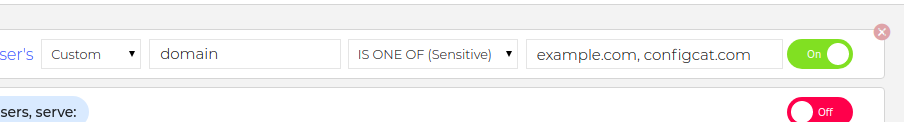
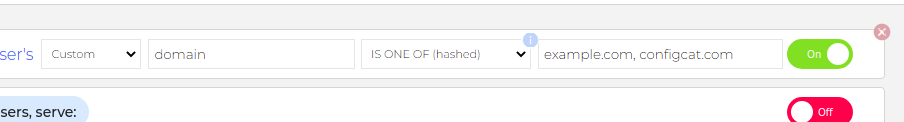
Sensitive text changes (#132)
* sensitive text changed to confidential text

* Sensitvive -> Confidential

* Sensitvive -> Hashed

* Some pictures updated

Changed region(s): [[0.3717, 0.3197, 0.8363, 0.5656], [0.0619, 0.3934, 0.2478, 0.4918], [0.5575, 0.2705, 0.6195, 0.3934]]

diff --git a/website/docs/advanced/targeting.md b/website/docs/advanced/targeting.md
@@ -44,35 +44,35 @@ The following comparators assume that *Attribute* and *Comparison value* contain
 > In case **attribute is not passed** to the SDK or it's value is **falsy** (unknown, null, ""), targeting rule **evaluation will be skipped**.
 
 :::caution
-Consider using Sensitive text comparators if you are planning to target users by their sensitive information e.g: email address or company domain!
+Consider using Confidential text comparators if you are planning to target users by their sensitive information e.g: email address or company domain!
 :::
 
-| Comparator       | Description                                                                                                         |
-| ---------------- | ------------------------------------------------------------------------------------------------------------------- |
-| IS ONE OF        | Checks if the *Attribute* is listed in the *Comparison value*. *Comparison value* should be a comma-separated list. |
-| IS NOT ONE OF    | True if the *Attribute* is not listed in the *Comparison value*.                                                    |
-| CONTAINS         | True if the *Attribute* contains the *Comparison value*.                                                            |
-| DOES NOT CONTAIN | True if the *Attribute* doesn't contain the *Comparison value*.                                                     |
+| Comparator                   | Description                                                                                                         |
+| ---------------------------- | ------------------------------------------------------------------------------------------------------------------- |
+| IS ONE OF (cleartext)        | Checks if the *Attribute* is listed in the *Comparison value*. *Comparison value* should be a comma-separated list. |
+| IS NOT ONE OF (cleartext)    | True if the *Attribute* is not listed in the *Comparison value*.                                                    |
+| CONTAINS (cleartext)         | True if the *Attribute* contains the *Comparison value*.                                                            |
+| DOES NOT CONTAIN (cleartext) | True if the *Attribute* doesn't contain the *Comparison value*.                                                     |
 
-#### Sensitive text comparators
+#### Confidential text comparators
 
-We recommend sensitive text comparators in case of frontend applications targeting users based on sensitive data (like email addresses, names, etc).
+We recommend confidential text comparators in case of frontend applications targeting users based on sensitive data (like email addresses, names, etc).
 In this case, the feature flag evaluation is based on the secure hashes of the comparison values.
 
 | Comparator                | Description                                                                                                         |
 | ------------------------- | ------------------------------------------------------------------------------------------------------------------- |
-| IS ONE OF (Sensitive)     | Checks if the *Attribute* is listed in the *Comparison value*. *Comparison value* should be a comma-separated list. |
-| IS NOT ONE OF (Sensitive) | True if the *Attribute* is not listed in the *Comparison value*.                                                    |
+| IS ONE OF (hashed)        | Checks if the *Attribute* is listed in the *Comparison value*. *Comparison value* should be a comma-separated list. |
+| IS NOT ONE OF (hashed)    | True if the *Attribute* is not listed in the *Comparison value*.                                                    |
 
-Since sensitive text comparators don't support CONTAINS or DOES NOT CONTAIN comparisons, here is an example of how to target users from the same company. Which used to be handled by a rule like:
+Since confidential text comparators don't support CONTAINS or DOES NOT CONTAIN comparisons, here is an example of how to target users from the same company. Which used to be handled by a rule like:
 
-![Sensitive](/assets/sensitive2.png)
+![Confidential](/assets/sensitive2.png)
 
 
-You can add a custom attribute called `domain` and use only sensitive comparators in the targeting rule.
+You can add a custom attribute called `domain` and use only confidential comparators in the targeting rule.
 
 On the Dashboard:
-![Sensitive](/assets/sensitive1.png)
+![Confidential](/assets/sensitive1.png)
 
 In your code:
 ```js
@@ -84,7 +84,7 @@ const userObject = {
 }
 const value = configCatClient.getValue(key, defaultValue, callback, userObject);
 ```
-Sensitive comparators are supported from these SDK versions:
+Confidential comparators are supported from these SDK versions:
 
 | SDK     | Version |
 | ------- | ------- |

diff --git a/website/docs/sdk-reference/js-ssr.md b/website/docs/sdk-reference/js-ssr.md
@@ -405,7 +405,7 @@ const configCatClient = configcat.createClientWithAutoPoll('PKDVCLf-Hq-h-kCzMp-L
 The frontend/mobile SDKs are running in your users' browsers/devices. The SDK is downloading a [config.json](https://configcat.com/docs/requests/) file from ConfigCat's CDN servers. The URL path for this config.json file contains your SDK key, so the SDK key and the content of your config.json file (feature flag keys, feature flag values, targeting rules, % rules) can be visible to your users. 
 This SDK key is read-only, it only allows downloading your config.json file, but nobody can make any changes with it in your ConfigCat account.  
 Suppose you don't want your SDK key or the content of your config.json file visible to your users. In that case, we recommend you use the SDK only in your backend applications and call a backend endpoint in your frontend/mobile application to evaluate the feature flags for a specific application customer.  
-Also, we recommend using [sensitive targeting comparators](https://configcat.com/docs/advanced/targeting/#sensitive-text-comparators) in the targeting rules of those feature flags that are used in the frontend/mobile SDKs.
+Also, we recommend using [confidential targeting comparators](https://configcat.com/docs/advanced/targeting/#confidential-text-comparators) in the targeting rules of those feature flags that are used in the frontend/mobile SDKs.
 
 
 ## Browser compatibility

diff --git a/website/docs/sdk-reference/js.md b/website/docs/sdk-reference/js.md
@@ -416,7 +416,7 @@ const configCatClient = configcat.createClientWithAutoPoll('PKDVCLf-Hq-h-kCzMp-L
 The frontend/mobile SDKs are running in your users' browsers/devices. The SDK is downloading a [config.json](https://configcat.com/docs/requests/) file from ConfigCat's CDN servers. The URL path for this config.json file contains your SDK key, so the SDK key and the content of your config.json file (feature flag keys, feature flag values, targeting rules, % rules) can be visible to your users. 
 This SDK key is read-only, it only allows downloading your config.json file, but nobody can make any changes with it in your ConfigCat account.  
 Suppose you don't want your SDK key or the content of your config.json file visible to your users. In that case, we recommend you use the SDK only in your backend applications and call a backend endpoint in your frontend/mobile application to evaluate the feature flags for a specific application customer.  
-Also, we recommend using [sensitive targeting comparators](https://configcat.com/docs/advanced/targeting/#sensitive-text-comparators) in the targeting rules of those feature flags that are used in the frontend/mobile SDKs.
+Also, we recommend using [confidential targeting comparators](https://configcat.com/docs/advanced/targeting/#confidential-text-comparators) in the targeting rules of those feature flags that are used in the frontend/mobile SDKs.
 
 
 ## Browser compatibility

diff --git a/website/docs/sdk-reference/android.md b/website/docs/sdk-reference/android.md
@@ -366,7 +366,7 @@ Evaluating rule: [Email:john@example.com] [CONTAINS] [@example.com] => match, re
 The frontend/mobile SDKs are running in your users' browsers/devices. The SDK is downloading a [config.json](https://configcat.com/docs/requests/) file from ConfigCat's CDN servers. The URL path for this config.json file contains your SDK key, so the SDK key and the content of your config.json file (feature flag keys, feature flag values, targeting rules, % rules) can be visible to your users. 
 This SDK key is read-only, it only allows downloading your config.json file, but nobody can make any changes with it in your ConfigCat account.  
 Suppose you don't want your SDK key or the content of your config.json file visible to your users. In that case, we recommend you use the SDK only in your backend applications and call a backend endpoint in your frontend/mobile application to evaluate the feature flags for a specific application customer.  
-Also, we recommend using [sensitive targeting comparators](https://configcat.com/docs/advanced/targeting/#sensitive-text-comparators) in the targeting rules of those feature flags that are used in the frontend/mobile SDKs.
+Also, we recommend using [confidential targeting comparators](https://configcat.com/docs/advanced/targeting/#confidential-text-comparators) in the targeting rules of those feature flags that are used in the frontend/mobile SDKs.
 
 ## Sample App
 

diff --git a/website/docs/sdk-reference/ios.md b/website/docs/sdk-reference/ios.md
@@ -388,7 +388,7 @@ let client: ConfigCatClient = ConfigCatClient(sdkKey: sdkKey, sessionConfigurati
 The frontend/mobile SDKs are running in your users' browsers/devices. The SDK is downloading a [config.json](https://configcat.com/docs/requests/) file from ConfigCat's CDN servers. The URL path for this config.json file contains your SDK key, so the SDK key and the content of your config.json file (feature flag keys, feature flag values, targeting rules, % rules) can be visible to your users. 
 This SDK key is read-only, it only allows downloading your config.json file, but nobody can make any changes with it in your ConfigCat account.  
 Suppose you don't want your SDK key or the content of your config.json file visible to your users. In that case, we recommend you use the SDK only in your backend applications and call a backend endpoint in your frontend/mobile application to evaluate the feature flags for a specific application customer.  
-Also, we recommend using [sensitive targeting comparators](https://configcat.com/docs/advanced/targeting/#sensitive-text-comparators) in the targeting rules of those feature flags that are used in the frontend/mobile SDKs.
+Also, we recommend using [confidential targeting comparators](https://configcat.com/docs/advanced/targeting/#confidental-text-comparators) in the targeting rules of those feature flags that are used in the frontend/mobile SDKs.
 
 
 ## Sample App

diff --git a/website/docs/sdk-reference/csharp.md b/website/docs/sdk-reference/csharp.md
@@ -302,8 +302,8 @@ The URL to your current config.json is based on your [Data Governance](advanced/
                         // 13 -> '<= (Number)',
                         // 14 -> '> (Number)',
                         // 15 -> '>= (Number)',
-                        // 16 -> 'IS ONE OF (Sensitive)',
-                        // 17 -> 'IS NOT ONE OF (Sensitive)'
+                        // 16 -> 'IS ONE OF (Hashed)',
+                        // 17 -> 'IS NOT ONE OF (Hashed)'
                     "c": "@example.com", // comparison value
                     "v": true, // value served when the rule is selected during evaluation
                     "i": "bcfb84a7" // variation id (for analytical purposes)

diff --git a/website/docs/sdk-reference/elixir.md b/website/docs/sdk-reference/elixir.md
@@ -327,8 +327,8 @@ The URL to your current config.json is based on your [Data Governance](advanced/
                         // 13 -> '<= (Number)',
                         // 14 -> '> (Number)',
                         // 15 -> '>= (Number)',
-                        // 16 -> 'IS ONE OF (Sensitive)',
-                        // 17 -> 'IS NOT ONE OF (Sensitive)'
+                        // 16 -> 'IS ONE OF (Hashed)',
+                        // 17 -> 'IS NOT ONE OF (Hashed)'
                     "c": "@example.com", // comparison value
                     "v": true, // value served when the rule is selected during evaluation
                     "i": "bcfb84a7" // variation id (for analytical purposes)

diff --git a/website/docs/sdk-reference/go.md b/website/docs/sdk-reference/go.md
@@ -308,8 +308,8 @@ The URL to your current config.json is based on your [Data Governance](advanced/
                         // 13 -> '<= (Number)',
                         // 14 -> '> (Number)',
                         // 15 -> '>= (Number)',
-                        // 16 -> 'IS ONE OF (Sensitive)',
-                        // 17 -> 'IS NOT ONE OF (Sensitive)'
+                        // 16 -> 'IS ONE OF (Hashed)',
+                        // 17 -> 'IS NOT ONE OF (Hashed)'
                     "c": "@example.com", // comparison value
                     "v": true, // value served when the rule is selected during evaluation
                     "i": "bcfb84a7" // variation id (for analytical purposes)

diff --git a/website/docs/sdk-reference/java.md b/website/docs/sdk-reference/java.md
@@ -329,8 +329,8 @@ The URL to your current config.json is based on your [Data Governance](advanced/
                         // 13 -> '<= (Number)',
                         // 14 -> '> (Number)',
                         // 15 -> '>= (Number)',
-                        // 16 -> 'IS ONE OF (Sensitive)',
-                        // 17 -> 'IS NOT ONE OF (Sensitive)'
+                        // 16 -> 'IS ONE OF (Hashed)',
+                        // 17 -> 'IS NOT ONE OF (Hashed)'
                     "c": "@example.com", // comparison value
                     "v": true, // value served when the rule is selected during evaluation
                     "i": "bcfb84a7" // variation id (for analytical purposes)

diff --git a/website/docs/sdk-reference/python.md b/website/docs/sdk-reference/python.md
@@ -297,8 +297,8 @@ The URL to your current config.json is based on your [Data Governance](advanced/
                         // 13 -> '<= (Number)',
                         // 14 -> '> (Number)',
                         // 15 -> '>= (Number)',
-                        // 16 -> 'IS ONE OF (Sensitive)',
-                        // 17 -> 'IS NOT ONE OF (Sensitive)'
+                        // 16 -> 'IS ONE OF (Hashed)',
+                        // 17 -> 'IS NOT ONE OF (Hashed)'
                     "c": "@example.com", // comparison value
                     "v": true, // value served when the rule is selected during evaluation
                     "i": "bcfb84a7" // variation id (for analytical purposes)

diff --git a/website/docs/sdk-reference/ruby.md b/website/docs/sdk-reference/ruby.md
@@ -299,8 +299,8 @@ The URL to your current config.json is based on your [Data Governance](advanced/
                         // 13 -> '<= (Number)',
                         // 14 -> '> (Number)',
                         // 15 -> '>= (Number)',
-                        // 16 -> 'IS ONE OF (Sensitive)',
-                        // 17 -> 'IS NOT ONE OF (Sensitive)'
+                        // 16 -> 'IS ONE OF (Hashed)',
+                        // 17 -> 'IS NOT ONE OF (Hashed)'
                     "c": "@example.com", // comparison value
                     "v": true, // value served when the rule is selected during evaluation
                     "i": "bcfb84a7" // variation id (for analytical purposes)

diff --git a/website/docs/sdk-reference/php.md b/website/docs/sdk-reference/php.md
@@ -232,8 +232,8 @@ The URL to your current config.json is based on your [Data Governance](advanced/
                         // 13 -> '<= (Number)',
                         // 14 -> '> (Number)',
                         // 15 -> '>= (Number)',
-                        // 16 -> 'IS ONE OF (Sensitive)',
-                        // 17 -> 'IS NOT ONE OF (Sensitive)'
+                        // 16 -> 'IS ONE OF (Hashed)',
+                        // 17 -> 'IS NOT ONE OF Hashed)'
                     "c": "@example.com", // comparison value
                     "v": true, // value served when the rule is selected during evaluation
                     "i": "bcfb84a7" // variation id (for analytical purposes)
